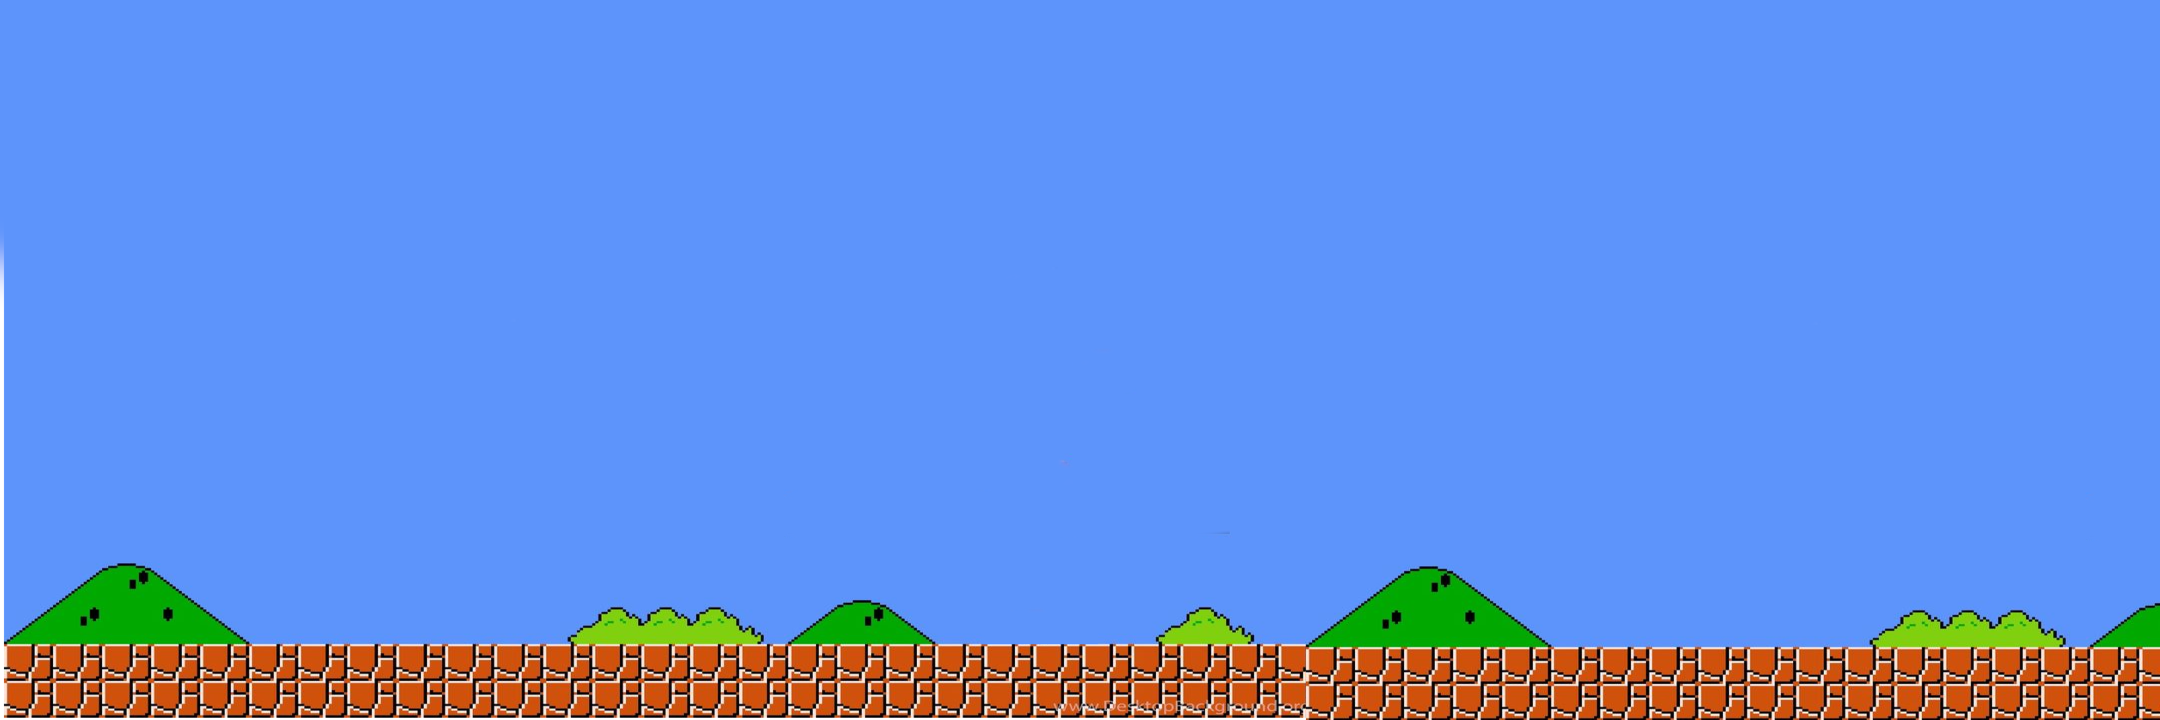
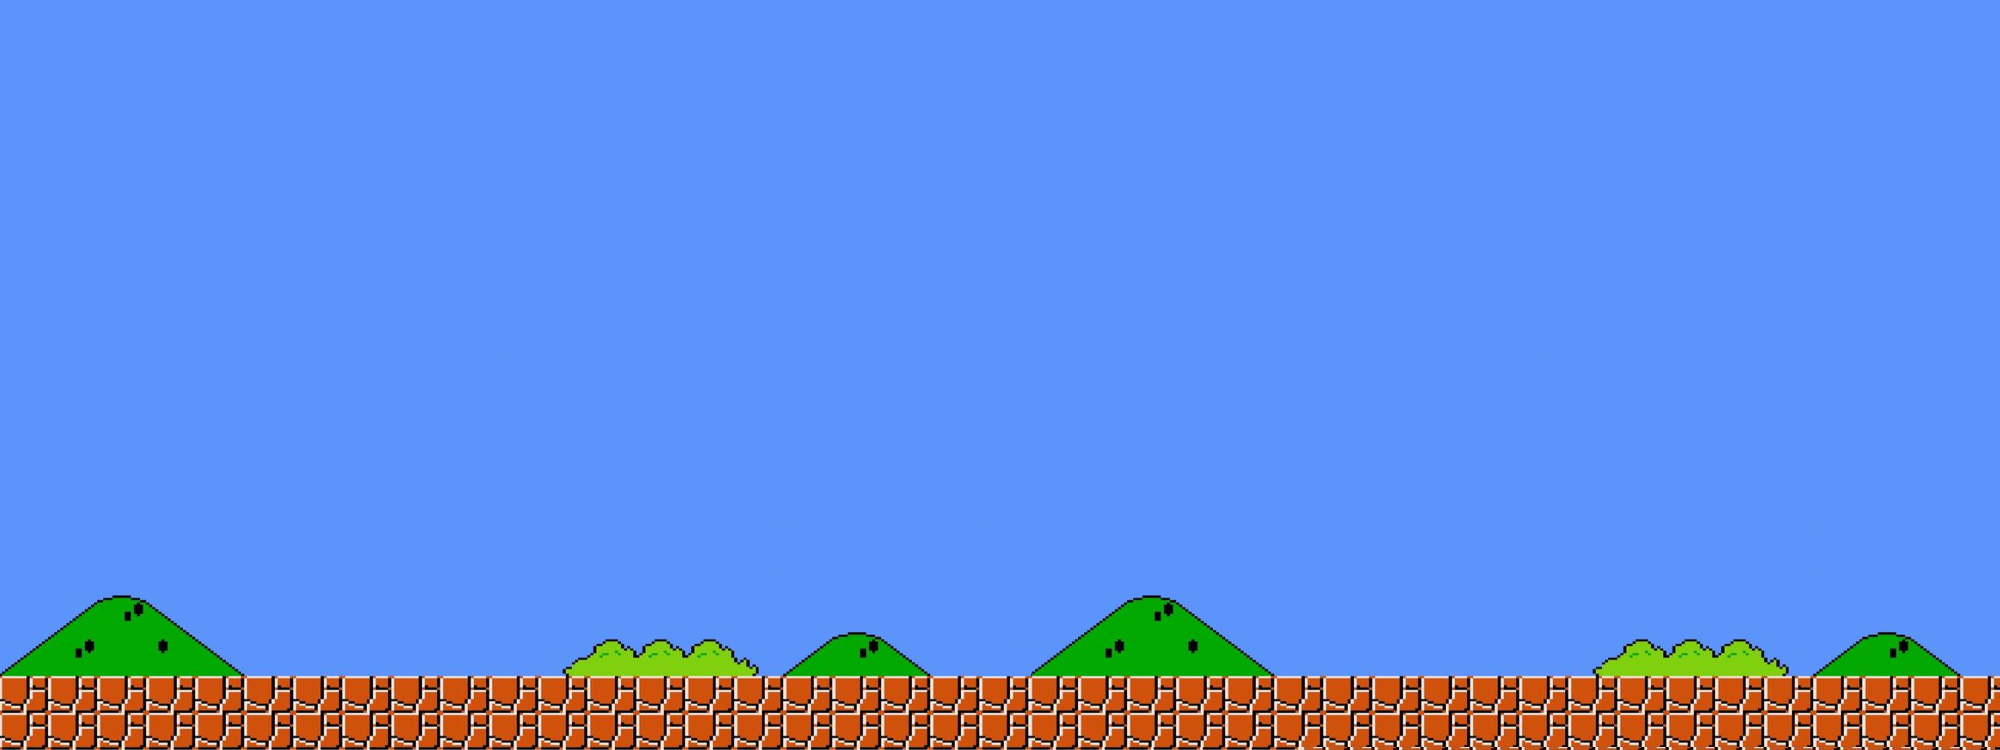
pantalla mario se mueve aleluya

Changed region(s): [[0.0, 0.7639, 1.0, 1.0]]

diff --git a/CodigoFuente/src/ventanas/PantallaDeJuego.java b/CodigoFuente/src/ventanas/PantallaDeJuego.java
@@ -8,6 +8,7 @@ import javax.swing.JLabel;
 import javax.swing.JPanel;
 
 import elementos.entidades.Jugable;
+import sensoresDeTeclas.SensorDeTeclasJuego;
 
 public class PantallaDeJuego extends JPanel {
 	
@@ -19,12 +20,15 @@ public class PantallaDeJuego extends JPanel {
 	
 	private JLabel fondo;
 	
+	private SensorDeTeclasJuego sensorDeTeclasJuego;
 	
-	public PantallaDeJuego() {
+	private int posicionPreviaDeMario;
+	
+	public PantallaDeJuego(SensorDeTeclasJuego sensorDeTeclasJuego) {
 		setVisible(true);
 		fondo= new JLabel();
 		configurarVentana();
-	    
+	    this.sensorDeTeclasJuego = sensorDeTeclasJuego;
 	}
 	
 	protected void configurarVentana(){
@@ -37,18 +41,33 @@ public class PantallaDeJuego extends JPanel {
 	}
 	
 	protected void establecerFondo(){
-		 ImageIcon fondoImagen = new ImageIcon(getClass().getResource("/imagenes/fondoJuegoCielo.png"));
-		 Image imagen = fondoImagen.getImage();
-		 fondo = new JLabel(new ImageIcon(imagen));
+		/**
+		 ImageIcon fondoImagen = new ImageIcon("src/imagenes/fondoPantallaJuego.png");
+		 fondo = new JLabel(fondoImagen);
 		 fondo.setPreferredSize(size);
 		 fondo.setMaximumSize(size);
 		 fondo.setMinimumSize(size);
-		 fondo.setBounds(0, 0, size.width, size.height);
+		 fondo.setBounds(-100, -30, size.height, size.height);
 		 add(fondo);
+		 **/
+		ImageIcon fondoImagen = new ImageIcon("src/imagenes/fondoPantallaJuego.png");
+	    
+	    fondo = new JLabel(fondoImagen);
+	    
+	    // El tamaño del JLabel es el del panel, pero la imagen de fondo se mantiene en 4000x760
+	    fondo.setBounds(0, 0, 4000, size.height); // El borde izquierdo está en 0, pero la imagen tiene 4000 de ancho
+	    
+	    // Añades el JLabel al panel y lo mantienes alineado al borde izquierdo
+	    add(fondo);
+	    
+	    // Forzar tamaño del panel a 960x760 para que solo se vea la parte izquierda del fondo
+	    setPreferredSize(new Dimension(size.height, size.width));
+	    setLayout(null); // Usamos layout nulo para controlar el posicionamiento exacto
 	}
 	
 	public void registrarJugable(Jugable jugable) {
 		marioJugable = jugable;
+		posicionPreviaDeMario = marioJugable.getPosicion().x;
 		ImageIcon marioIcono = new ImageIcon(marioJugable.getSprite().getRutaImagen());
 		marioLabel = new JLabel(marioIcono);
 		marioLabel.setBounds(marioJugable.getPosicion().x, marioJugable.getPosicion().y, marioIcono.getIconWidth(), marioIcono.getIconHeight());
@@ -57,8 +76,27 @@ public class PantallaDeJuego extends JPanel {
 		establecerFondo();
 	}
 	
+	public int moverADerecha() {
+		int toRet = 0;
+		if(sensorDeTeclasJuego.obtenerDPresionada()) {
+			toRet = 10;
+		}
+		return toRet;
+	}
+	
 	public void refrescar(){
-		marioLabel.setLocation(marioJugable.getPosicion());
+		if(marioJugable.getPosicion().x < 300) {
+			marioLabel.setLocation(marioJugable.getPosicion());
+		}else if(marioJugable.getPosicion().x >= 300) {
+			if(sensorDeTeclasJuego.obtenerAPresionada()) {
+				marioLabel.setLocation(marioLabel.getLocation().x - 10, marioJugable.getPosicion().y);
+			}else if(marioJugable.getPosicion().x >= 300 && marioLabel.getLocation().x >= 300){
+				marioLabel.setLocation(marioLabel.getLocation().x, marioJugable.getPosicion().y);
+				fondo.setLocation(fondo.getLocation().x - moverADerecha(), fondo.getLocation().y);
+			}else if(sensorDeTeclasJuego.obtenerDPresionada()){
+				marioLabel.setLocation(marioLabel.getLocation().x + 10, marioJugable.getPosicion().y);
+			}
+		}
 		repaint();
 	}
 }

diff --git a/CodigoFuente/src/ventanas/ControladorVistas.java b/CodigoFuente/src/ventanas/ControladorVistas.java
@@ -33,8 +33,8 @@ public class ControladorVistas implements ControladorDeVistas, ControladorEntreJ
 		sensorDeTeclasMenu = new SensorDeTeclasMenu();
 		pantallaInicial= new PantallaInicial(sensorDeTeclasMenu, this);
 		pantallaFinal= new PantallaFinal();
-		pantallaDeJuego= new PantallaDeJuego();
 		sensorDeTeclasJuego = new SensorDeTeclasJuego();
+		pantallaDeJuego= new PantallaDeJuego(sensorDeTeclasJuego);
 		this.juego = juego;
 		configurarVentana();
 		ventana.setVisible(true);
@@ -67,6 +67,7 @@ public class ControladorVistas implements ControladorDeVistas, ControladorEntreJ
 	public void RegistrarOyenteJuego(){
 		ventana.removeKeyListener(sensorDeTeclasMenu);
 		ventana.addKeyListener(sensorDeTeclasJuego);
+		ventana.requestFocusInWindow();
 	}
 
 	
@@ -124,9 +125,6 @@ public class ControladorVistas implements ControladorDeVistas, ControladorEntreJ
 			pantallaInicial.actualizarFoco();
 		}else {
 			pantallaDeJuego.refrescar();
-		}
-		if(sensorDeTeclasJuego.obtenerDPresionada()) {
-			System.out.println("D");
 		}
 		ventana.revalidate();
 		ventana.repaint();

diff --git a/CodigoFuente/src/ventanas/PantallaInicial.java b/CodigoFuente/src/ventanas/PantallaInicial.java
@@ -91,11 +91,11 @@ public class PantallaInicial extends JPanel {
 	}
 	
 	protected void establecerFondo(){
-		 ImageIcon fondoImagen = new ImageIcon(getClass().getResource("/imagenes/fondoJuegoCielo.png"));
+		 ImageIcon fondoImagen = new ImageIcon("src/imagenes/fondoJuegoCielo.png");
 		 Image imagen = fondoImagen.getImage();
 		 Image imagenEscalada = imagen.getScaledInstance(DimensionesConstantes.PANEL_ANCHO, DimensionesConstantes.PANEL_ALTO, Image.SCALE_SMOOTH);
 		 
-		 ImageIcon iconoCartel = new ImageIcon(getClass().getResource("/imagenes/cartelSuperMarioBros.png"));
+		 ImageIcon iconoCartel = new ImageIcon("src/imagenes/cartelSuperMarioBros.png");
 		 Image imagenCartel= iconoCartel.getImage();
 		 Image imagenCartelEscalada= imagenCartel.getScaledInstance(400, 200, Image.SCALE_SMOOTH);
 		 JLabel cartelLabel= new JLabel(new ImageIcon(imagenCartelEscalada));

diff --git a/CodigoFuente/src/juego/ControladorMovimiento.java b/CodigoFuente/src/juego/ControladorMovimiento.java
@@ -7,7 +7,7 @@ import elementos.entidades.Jugable;
 import sensoresDeTeclas.SensorDeTeclasJuego;
 
 public class ControladorMovimiento {
-	private static final int VELOCIDAD_MOVIMIENTO_HORIZONTAL = 20;
+	private static final int VELOCIDAD_MOVIMIENTO_HORIZONTAL = 10;
 	
 	private static final int FUERZA_SALTO = -30;
 	
@@ -71,8 +71,10 @@ public class ControladorMovimiento {
 		if(actualizadorDePosicionDeJugador.marioEnElPiso()) {
 			reiniciarVelocidadVertical();
 			saltando = false;
-		}else {
+		}else if(velocidadVertical >= FUERZA_SALTO){
 			velocidadVertical += GRAVEDAD;
+			aplicarVelocidad();
+		}else {
 			aplicarVelocidad();
 		}
 	}

diff --git a/CodigoFuente/src/juego/CoordinadorActualizacionesJugador.java b/CodigoFuente/src/juego/CoordinadorActualizacionesJugador.java
@@ -28,6 +28,7 @@ public class CoordinadorActualizacionesJugador {
 		this.velocidad = new Point(0,0);
 		this.marioSprite = marioJugable.getSprite();
 		this.controladorMovimiento = new ControladorMovimiento(marioJugable, sensorDeTeclasJuego);
+		this.marioJugable = marioJugable;
 	}
 	
 	private Point actualizarVelocidad() {
@@ -45,7 +46,7 @@ public class CoordinadorActualizacionesJugador {
 	}
 	
 	private void actualizarMarioLabel() {
-		//TODO entidadJugador.actualizar(posicion, marioSprite);
+		marioJugable.setPosicion(posicion);
 	}
 
 	public void actualizar() {

diff --git a/CodigoFuente/src/generadores/GeneradorDeNivel.java b/CodigoFuente/src/generadores/GeneradorDeNivel.java
@@ -22,7 +22,7 @@ public class GeneradorDeNivel {
 	public GeneradorDeNivel(FabricaEntidades fabricaEntidades) {
 		this.fabricaEntidades = fabricaEntidades;
 		//TODO forzando modo 1
-		this.fabricaSilueta = new FabricaSiluetaModoOriginal("../imagenes/siluetas/siluetaModoOriginal.png");
+		this.fabricaSilueta = new FabricaSiluetaModoOriginal("src/imagenes/siluetas/siluetaModoOriginal.png");
 	}
 	
 	public Nivel generarNivel(String rutaTxtNivel){

diff --git a/CodigoFuente/src/juego/ActualizadorDePosicionDeJugador.java b/CodigoFuente/src/juego/ActualizadorDePosicionDeJugador.java
@@ -27,7 +27,8 @@ public class ActualizadorDePosicionDeJugador {
 	}
 	
 	public boolean marioEnElPiso() {
-		// Se deberia pasar el piso 
-		return gestorDeColisiones.verificarColisiones(null);
+		//TODO Se deberia pasar el piso 
+		//return gestorDeColisiones.verificarColisiones(null);
+		return posicionY >= 603;
 	}
 }

diff --git a/CodigoFuente/src/elementos/ElementoDeJuego.java b/CodigoFuente/src/elementos/ElementoDeJuego.java
@@ -43,6 +43,10 @@ public abstract class ElementoDeJuego implements Visitado {
 		this.miNivel = nivel;
 	}
 	
+	public void setPosicion (Point posicion) {
+		this.posicion = posicion;
+	}
+	
 	public Sprite getSprite() {
 		return this.sprite;
 	}
